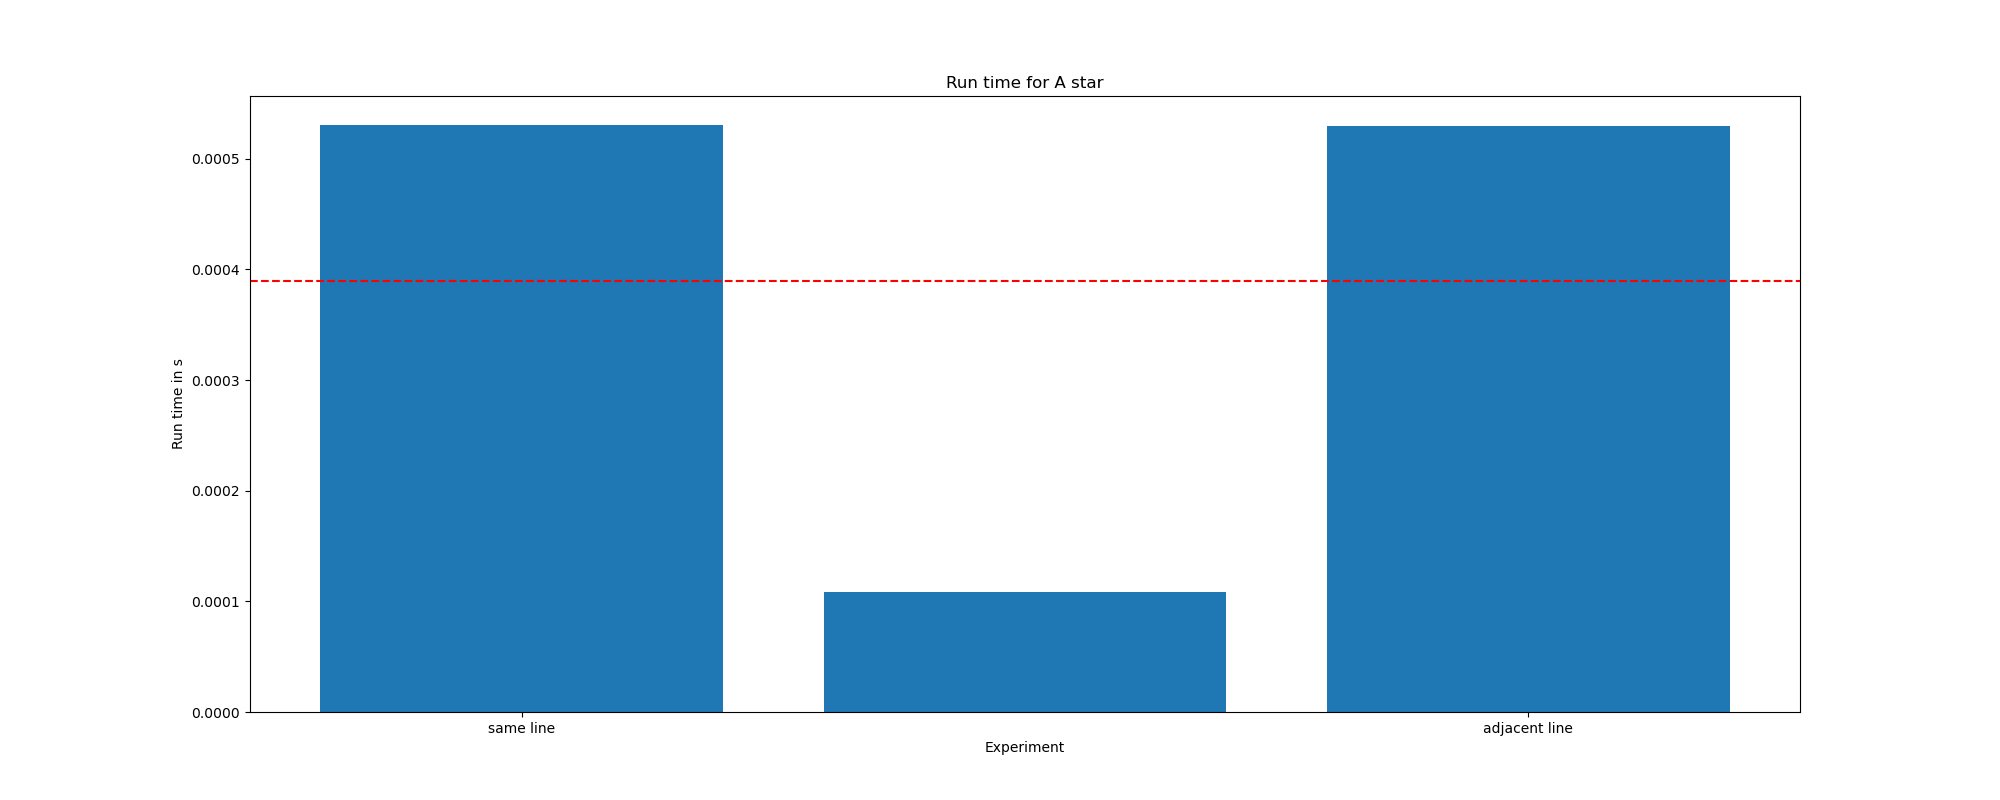
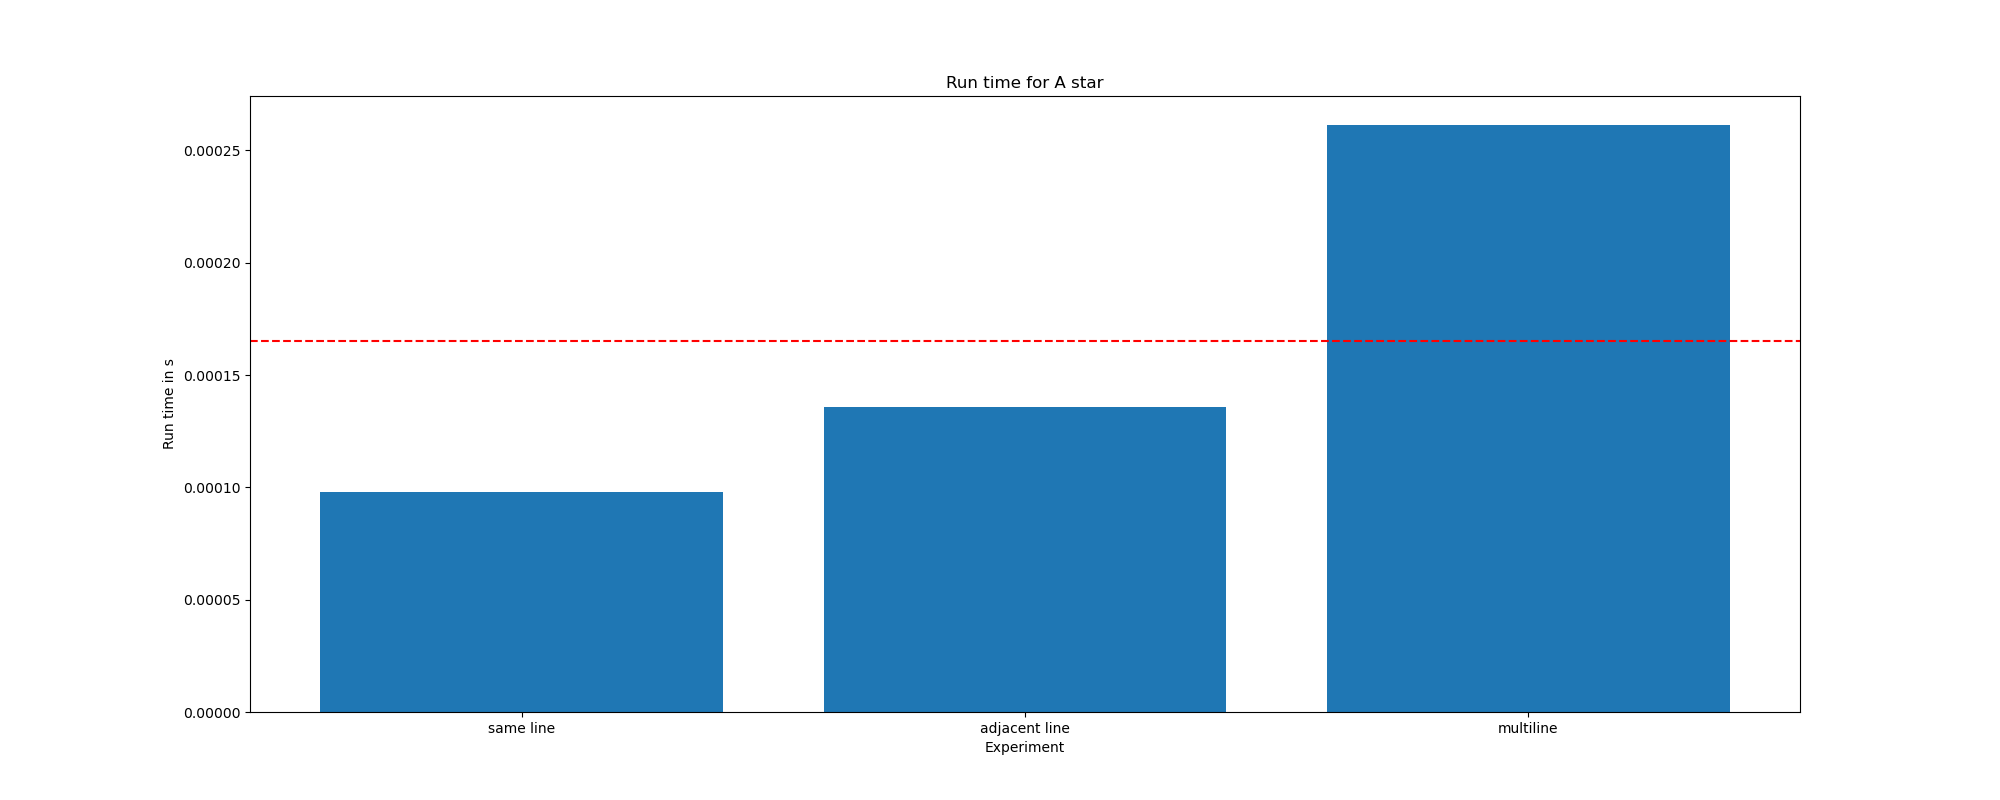
finish part 5

diff --git a/part_five/part_five.py b/part_five/part_five.py
@@ -15,7 +15,6 @@ class WeightedGraph:
         self.locations = {}
         self.map = {}
         self.line = {}
-        self.total_lines = {}
     
     def add_node(self):
         self.adj_list.append([])
@@ -69,8 +68,8 @@ def file_parser():
             end_node = int(line_split[1])
             
             return_graph.edge(start_node, end_node, calculate_distance(return_graph, start_node, end_node))
-            return_graph.total_lines[(start_node, end_node)] = int(line_split[2])
-            return_graph.total_lines[(end_node, start_node)] = int(line_split[2])
+            return_graph.line[(start_node, end_node)] = int(line_split[2])
+            return_graph.line[(end_node, start_node)] = int(line_split[2])
 
 
     return return_graph
@@ -201,7 +200,7 @@ def astar(G, source, destination, heuristic = None):
         heuristic = {}
 
         for i in G.locations.keys():
-            heuristic[i] = calculate_distance(G, source,i)
+            heuristic[i] = calculate_distance(G, destination,i)
 
     heap = Heap()
     heap.add(Node(source, 0))
@@ -243,12 +242,17 @@ def astar(G, source, destination, heuristic = None):
     curr_node = destination
     path = str(destination)
     linecount = 0
+    curr_line = -1
     while edge_to[curr_node] != curr_node:
         path = str(edge_to[curr_node]) + "," + path
-        linecount += G.total_lines[(curr_node, edge_to[curr_node])] - 1
+
+
+        linecount += (1 if curr_line != G.line[(curr_node, edge_to[curr_node])] else 0)
+        curr_line = G.line[(curr_node, edge_to[curr_node])]
+
         curr_node = edge_to[curr_node]
         
-    return path, linecount + 1
+    return path, linecount
 
 
 
@@ -296,12 +300,17 @@ def dijkstras(G, source, destination):
     curr_node = destination
     path = str(destination)
     linecount = 0
+    curr_line = -1
     while edge_to[curr_node] != curr_node:
         path = str(edge_to[curr_node]) + "," + path
-        linecount += G.total_lines[(curr_node, edge_to[curr_node])] - 1
+
+
+        linecount += (1 if curr_line != G.line[(curr_node, edge_to[curr_node])] else 0)
+        curr_line = G.line[(curr_node, edge_to[curr_node])]
+
         curr_node = edge_to[curr_node]
         
-    return path, linecount + 1
+    return path, linecount
 
 # how to test results
 
@@ -311,7 +320,7 @@ def draw_plot(run_arr, mean, sort_name, file_name):
 
     plt.axhline(mean,color="red",linestyle="--",label="Avg")
     plt.xlabel("Experiment")
-    plt.xticks([0, 2, 4], ["same line", "adjacent line", "multiline"])
+    plt.xticks([0, 1,2], ["same line", "adjacent line", "multiline"])
     plt.ylabel("Run time in s")
     plt.title("Run time for " + sort_name)
 
@@ -329,13 +338,16 @@ def algorithm_testers():
         if i == 0 or i == 189:
             continue
         for j in range(len(G.adj_list)):
+            if j == 0 or j == 189:
+                continue
+
             start_time = timeit.default_timer()
             path, lines = dijkstras(G, i, j)
             stop_time = timeit.default_timer()
 
-            if lines == 1:
+            if lines == 0:
                 dijkstras_same_line.append(stop_time - start_time)
-            elif lines == 2:
+            elif lines == 1:
                 dijkstras_adjacent_line.append(stop_time - start_time)
             else:
                 dijkstras_multi_line.append(stop_time - start_time)
@@ -345,6 +357,7 @@ def algorithm_testers():
     c = sum(dijkstras_multi_line)/(len(dijkstras_multi_line) if len(dijkstras_multi_line) != 0 else 1 )
 
     avgs_arr = [a,b,c]
+
     draw_plot(avgs_arr, sum(avgs_arr)/len(avgs_arr), "Dijkstra's", "dijkstra")
         
     
@@ -357,20 +370,23 @@ def algorithm_testers():
             continue
 
         for j in range(len(G.adj_list)):
+            if j == 0 or j == 189:
+                continue
             heuristic = {}
 
             for k in G.locations.keys():
-                heuristic[k] = calculate_distance(G, i,k)
+                heuristic[k] = calculate_distance(G, j,k)
 
 
             start_time = timeit.default_timer()
             path, lines = astar(G, i, j, heuristic)
             stop_time = timeit.default_timer()
 
-            if lines == 1:
+            if lines == 0:
                 astar_same_line.append(stop_time - start_time)
-            elif lines == 2:
+            elif lines == 1:
                 astar_adjacent_line.append(stop_time - start_time)
+
             else:
                 astar_multi_line.append(stop_time - start_time)
 
@@ -378,7 +394,8 @@ def algorithm_testers():
     b = sum(astar_adjacent_line)/(len(astar_adjacent_line) if len(astar_adjacent_line) != 0 else 1 )
     c = sum(astar_multi_line)/(len(astar_multi_line) if len(astar_multi_line) != 0 else 1 )
 
-    avgs_arr = [a,b,c]    
+    avgs_arr = [a,b,c]
+
     draw_plot(avgs_arr, sum(avgs_arr)/len(avgs_arr), "A star", "astarnoh")
 
 
@@ -391,13 +408,17 @@ def algorithm_testers():
             continue
 
         for j in range(len(G.adj_list)):
+            if j == 0 or j == 189:
+                continue
+
+
             start_time = timeit.default_timer()
             path, lines = astar(G, i, j)
             stop_time = timeit.default_timer()
 
-            if lines == 1:
+            if lines == 0:
                 astar_same_line.append(stop_time - start_time)
-            elif lines == 2:
+            elif lines == 1:
                 astar_adjacent_line.append(stop_time - start_time)
             else:
                 astar_multi_line.append(stop_time - start_time)
@@ -406,7 +427,7 @@ def algorithm_testers():
     b = sum(astar_adjacent_line)/(len(astar_adjacent_line) if len(astar_adjacent_line) != 0 else 1 )
     c = sum(astar_multi_line)/(len(astar_multi_line) if len(astar_multi_line) != 0 else 1 )
 
-    avgs_arr = [a,b,c]    
+    avgs_arr = [a,b,c]  
     draw_plot(avgs_arr, sum(avgs_arr)/len(avgs_arr), "A star", "astar")
 
 algorithm_testers()
